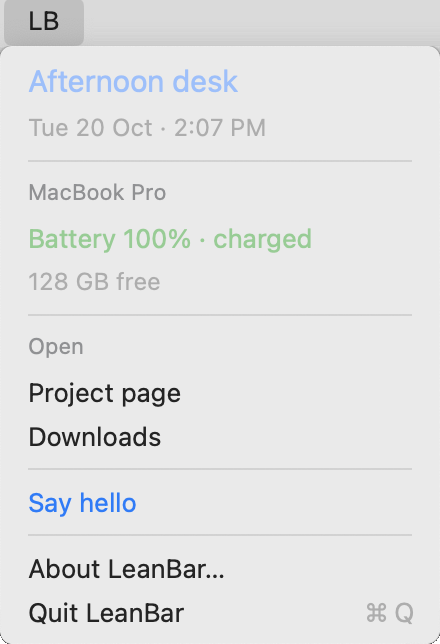
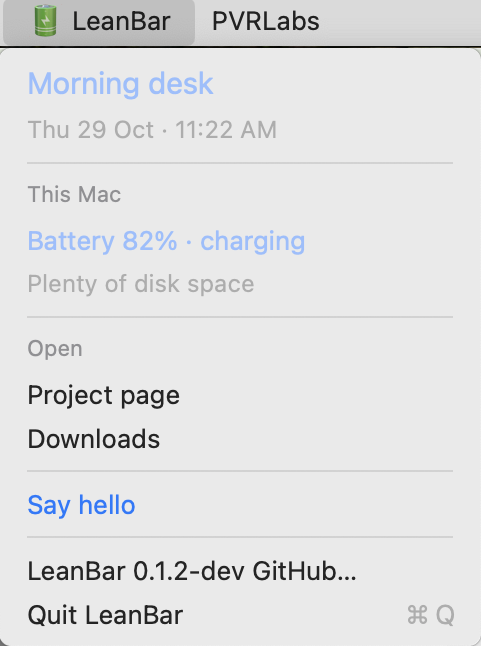
Add configurable menu bar captions

diff --git a/tests/refresh-races.swift b/tests/refresh-races.swift
@@ -19,11 +19,20 @@ func history() -> [[String]] {
     return try! JSONSerialization.jsonObject(with: data) as! [[String]]
 }
 let expected = ["literal space", "$(printf unsafe)"]
+require(captionFromOutput("Ignored header\n---\nStatus") == "LB", "ignored first line keeps default caption")
+require(captionFromOutput("title=PVR\n---\nStatus") == "PVR", "custom caption is parsed")
+require(captionFromOutput("title=● Café 🚀\n---\nStatus") == "● Café 🚀", "Unicode and emoji caption is parsed")
+require(captionFromOutput("title=\n---\nStatus") == "LB", "empty caption uses default")
+require(captionFromOutput("title\n---\nStatus") == "LB", "malformed directive keeps default")
+require(captionFromOutput("title=Bad\u{0}Title\n---\nStatus") == "LB", "control characters use default")
+require(captionFromOutput("title=" + String(repeating: "x", count: 40) + "\n---\nStatus").count == maximumCaptionLength,
+        "long caption is bounded")
 let poll = Timer(timeInterval: 0.05, repeats: true) { _ in
     if Date().timeIntervalSince(started) > 25 { fputs("Race check timeout at phase \(phase)\n", stderr); exit(1) }
     switch phase {
     case 0:
         guard !host.busy, host.rows.count == 2 else { return }
+        require(host.displayedCaption == "LB" && host.item.button?.title == "LB", "default caption is displayed")
         require(host.stateItem!.isHidden, "idle snapshot has no status row")
         oldItem = host.menu.items.first { $0.title == "Record argv" }!
         var label = host.menu.items.first { $0.title == "Waiting for action" }!
@@ -111,6 +120,8 @@ let poll = Timer(timeInterval: 0.05, repeats: true) { _ in
         phase = 2
     case 2:
         guard !host.busy, host.actions.isEmpty, host.rows.count == 3 else { return }
+        require(host.displayedCaption == "🟢 Fixture" && host.item.button?.title == "🟢 Fixture",
+                "successful refresh dynamically updates caption")
         require(host.opened, "refresh and queued action complete while menu stays open")
         require(history() == [expected], "queued action executes exactly once with original argv")
         require(host.stateItem!.isHidden, "completed actions hide progress with fresh snapshot visible")
@@ -136,6 +147,7 @@ let poll = Timer(timeInterval: 0.05, repeats: true) { _ in
         mark("fail"); host.refresh()
     case 5:
         guard !host.busy, host.message.hasPrefix("Failed:") else { return }
+        require(host.item.button?.title == "🟢 Fixture", "refresh failure preserves last successful caption")
         require(host.rows.isEmpty, "failure clears current snapshot")
         require(!host.stateItem!.isHidden && host.stateItem!.title.hasPrefix("Failed:"), "failure feedback appears while tracking")
         require(host.menu.items.filter { $0.representedObject is MenuCommand }.allSatisfy { !$0.isEnabled && $0.action == nil },

diff --git a/src/main.swift b/src/main.swift
@@ -9,6 +9,21 @@ struct MenuCommand {
     let argv: [String]
 }
 enum Invalid: Error { case format(String) }
+let defaultCaption = "LB"
+let maximumCaptionLength = 16
+
+func caption(_ text: String) -> String {
+    guard text.hasPrefix("title=") else { return defaultCaption }
+    let value = String(text.dropFirst(6))
+    guard !value.isEmpty, value.unicodeScalars.allSatisfy({ !CharacterSet.controlCharacters.contains($0) }) else {
+        return defaultCaption
+    }
+    return String(value.prefix(maximumCaptionLength))
+}
+
+func captionFromOutput(_ text: String) -> String {
+    caption(String(text.split(separator: "\n", maxSplits: 1, omittingEmptySubsequences: false).first ?? ""))
+}
 
 // Deliberately small quoting grammar: whitespace, single/double quotes, backslash.
 func tokens(_ value: String) throws -> [String] {
@@ -65,6 +80,7 @@ final class Host: NSObject, NSApplicationDelegate, NSMenuDelegate {
     let item = NSStatusBar.system.statusItem(withLength: NSStatusItem.variableLength)
     let menu = NSMenu()
     var rows = [Row](), busy = false, opened = false
+    var displayedCaption = defaultCaption
     var message = "Preparing…"
     var actions = [MenuCommand](), refreshPending = false
     var activeCommand: MenuCommand?
@@ -77,7 +93,7 @@ final class Host: NSObject, NSApplicationDelegate, NSMenuDelegate {
         self.producer = producer; self.helper = helper; self.interval = interval
     }
     func applicationDidFinishLaunching(_ notification: Notification) {
-        item.button?.title = "LB"
+        item.button?.title = displayedCaption
         menu.autoenablesItems = false
         menu.delegate = self; item.menu = menu
         render(); refresh()
@@ -218,7 +234,10 @@ final class Host: NSObject, NSApplicationDelegate, NSMenuDelegate {
                         throw Invalid.format("\(completed["error"] ?? "helper failed"): \(completed["stderr"] ?? "")")
                     }
                     if producerResult {
-                        self.rows = try parse(completed["stdout"] as? String ?? "")
+                        let output = completed["stdout"] as? String ?? ""
+                        self.rows = try parse(output)
+                        self.displayedCaption = captionFromOutput(output)
+                        self.item.button?.title = self.displayedCaption
                         self.message = ""
                     } else { self.refreshPending = true }
                 } catch {

diff --git a/tests/check.py b/tests/check.py
@@ -20,13 +20,19 @@ class Checks(unittest.TestCase):
         parsed = subprocess.run([str(BINARY), '--check'], input=text, capture_output=True)
         self.assertEqual(parsed.returncode, 0, parsed.stderr)
         self.assertIn(b'3 actions', parsed.stdout)
+        self.assertTrue(text.startswith('title=🔋 LeanBar\n---\n'.encode()))
+
+    def test_existing_ignored_header_still_parses(self):
+        result = subprocess.run([str(BINARY), '--check'], input='Anything at all\n---\nStatus\n',
+                                text=True, capture_output=True)
+        self.assertEqual(result.returncode, 0, result.stderr)
 
     def test_battery_states(self):
         with tempfile.TemporaryDirectory() as directory:
             pmset = Path(directory) / 'pmset'
             pmset.write_text('#!/bin/sh\nprintf \'%s\\n\' "$TEST_BATTERY"\n')
             pmset.chmod(0o755)
-            for script in ('menu.sh', 'menu-demo.sh'):
+            for script in ('menu.sh',):
                 for state, percent, label in (
                     ('charging', 85, 'charging'), ('not charging', 85, 'not charging'),
                     ('charged', 100, 'charged'), ('discharging', 85, 'unplugged'),

diff --git a/tests/ui-smoke.py b/tests/ui-smoke.py
@@ -28,12 +28,13 @@ else:
     (root / 'producer-started').touch()
     if (root / 'delay').exists():
         time.sleep(.6)
-    print('Fixture\\n---')
     if (root / 'mode').exists():
+        print('title=🟢 Fixture\\n---')
         print('Changed status\\nInserted label')
         print('Different action | shell=' + shlex.quote(str(pathlib.Path(__file__).resolve())) +
               ' param1=wrong terminal=false refresh=true')
         sys.exit(0)
+    print('Fixture\\n---')
     print(('Action recorded' if (root / 'action.json').exists() else 'Waiting for action') + ' | color=green')
     print('Record argv | shell=' + shlex.quote(str(pathlib.Path(__file__).resolve())) +
           ' param1="literal space" param2="$(printf unsafe)" terminal=false refresh=true')

diff --git a/README.md b/README.md
@@ -10,7 +10,7 @@ small supported subset. A script prints status and actions; LeanBar turns them
 into a native macOS menu. Use it as a small control panel for services, apps,
 scheduled jobs and logs, with the management logic staying in your scripts.
 
-One script. One native menu. Plain **LB** text in the menu bar. No marketplace,
+One script. One native menu. Plain text in the menu bar. No marketplace,
 settings UI, animation, or third-party libraries. The host uses Swift + AppKit;
 a short-lived Python helper bounds command execution.
 
@@ -49,9 +49,10 @@ Use `./build.sh --universal` to build for both Intel and Apple Silicon with a
 macOS 13 minimum. The app includes the MIT license and example menu in
 `Contents/Resources/`.
 
-`examples/menu.sh` is a live desk: a greeting, the time, power, free disk,
-and a few actions. `examples/menu-demo.sh` uses a sample machine name and disk
-value for release screenshots.
+`examples/menu.sh` is a live desk: a greeting, the time, power, machine details,
+free disk, and a few actions. It shows real details by default; set
+`LEANBAR_DEMO=1` for generic machine, battery, and disk details.
+`examples/menu-demo.sh` launches that anonymized demo mode for screenshots.
 
 To reuse an existing script, pass its absolute executable path:
 
@@ -79,7 +80,7 @@ LeanBar accepts a deliberately small flat subset of SwiftBar output. Your
 existing script can work unchanged if it stays within this subset:
 
 ```text
-Ignored header
+title=🔋 LeanBar
 ---
 Service: running | color=green size=13
 Open dashboard | shell=/usr/bin/open param1=http://127.0.0.1:8765 terminal=false
@@ -88,8 +89,12 @@ Restart service | bash=/absolute/path/to/control.sh param1=restart terminal=fals
 Last success: 09:00 | size=12
 ```
 
-- The first line is ignored; the second must be `---`. Header images are not
-  loaded. The host always displays LB.
+- The optional first-line `title=TEXT` directive sets the menu-bar caption. It
+  is metadata, not a menu item. Without it, LeanBar displays `LB`, preserving
+  existing scripts whose first line is ignored. An empty title also uses `LB`.
+  Captions use native plain-text rendering and are limited to 16 characters;
+  images, custom fonts, and rich text are not loaded. The second line must be
+  `---`.
 - Flat labels, `---` separators, `color` and `size` are supported. Colors:
   orange, gray, red, green, blue; other names use the system label color.
   Sizes are clamped to 9–24 points. Labels without commands are disabled.
@@ -113,8 +118,9 @@ Run a read-only producer through the parser before switching:
 ## Quiet refresh, bounded commands
 
 Opening shows the cached menu and requests fresh status. Each successful refresh
-updates the full menu immediately, including labels, actions and separators while
-open. Each action item carries the arguments of its displayed command. Background
+updates the caption and full menu immediately, including labels, actions and
+separators while open. A failed refresh preserves the last successful caption.
+Each action item carries the arguments of its displayed command. Background
 refreshes are quiet. Queued/running actions show progress, and failures remove
 stale actions immediately.
 

diff --git a/docs/releasing.md b/docs/releasing.md
@@ -37,6 +37,10 @@ summarize the release in its GitHub description. No announcement process.
 5. Verify a fresh cask install, a configured menu, and uninstall. The intended
    command is `brew install --cask pvrlabs/tap/leanbar`; document it in README
    only after the cask is published and verified.
+6. After publishing, advance `build.sh`'s bundle version to the next version
+   with a `-dev` suffix, and start the matching `CHANGELOG.md` section. For
+   example, after releasing `0.1.1`, set the development version to
+   `0.1.2-dev`. Keep this follow-up change off the tagged release commit.
 
 The release tag stays on the exact released source. Keep GitHub Releases as the
 binary source and the tap as a small distribution index. No cross-repository

diff --git a/CHANGELOG.md b/CHANGELOG.md
@@ -1,5 +1,11 @@
 # Changelog
 
+## 0.1.2-dev
+
+- Allow a first-line `title=TEXT` directive to set a bounded plain-text
+  menu-bar caption, with `LB` as the default and last-successful preservation
+  across refresh failures.
+
 ## 0.1.1 — 2026-10-26
 
 - Show the app version in the “LeanBar <version> GitHub…” menu item.
